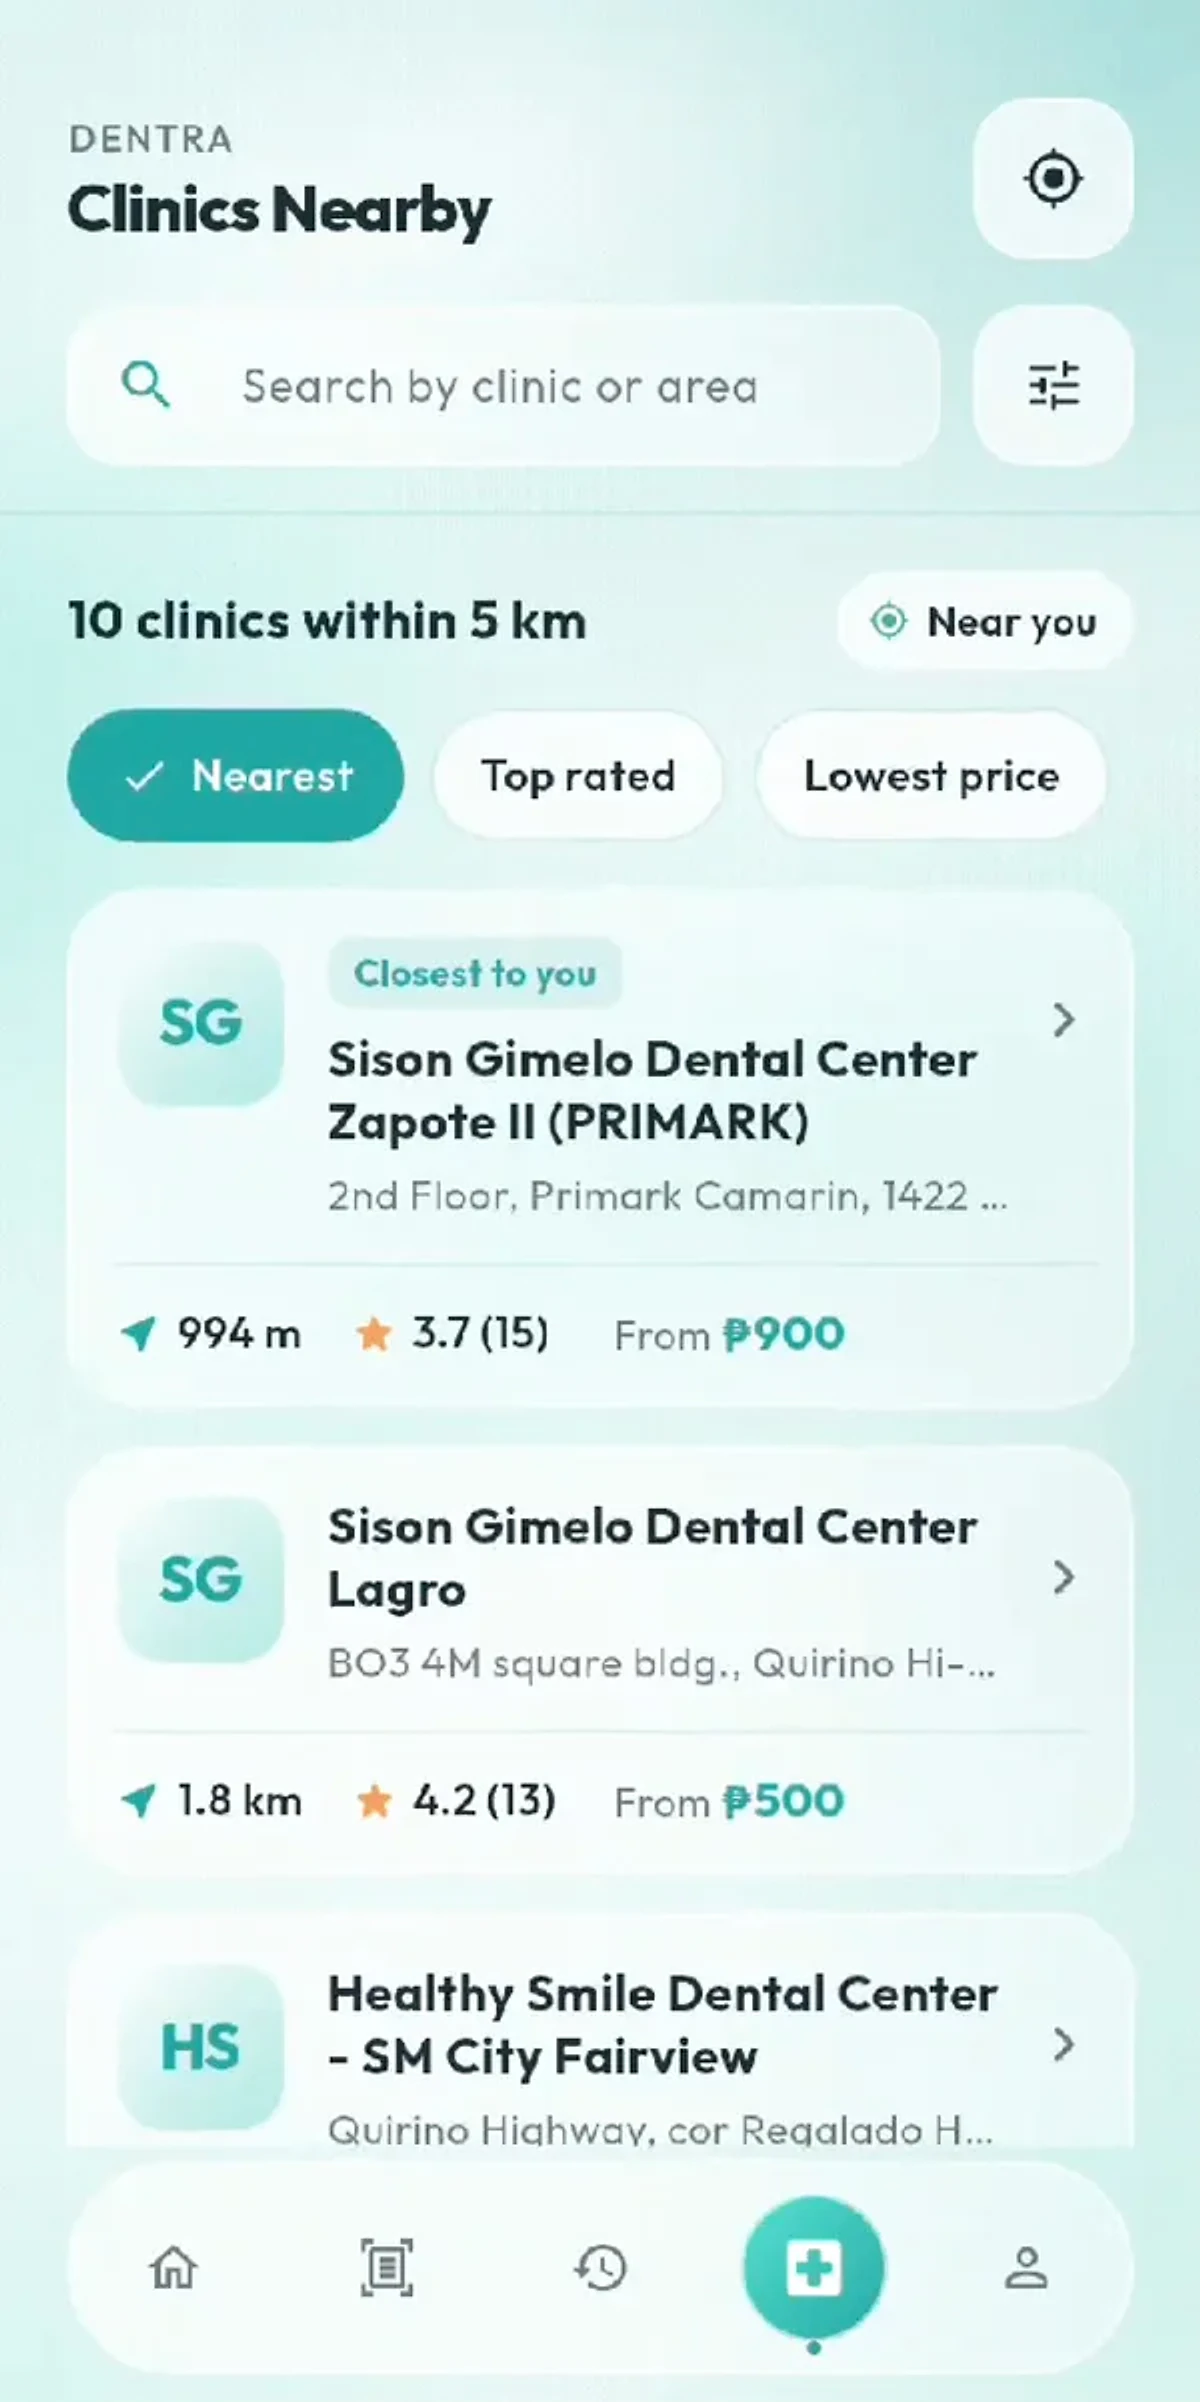
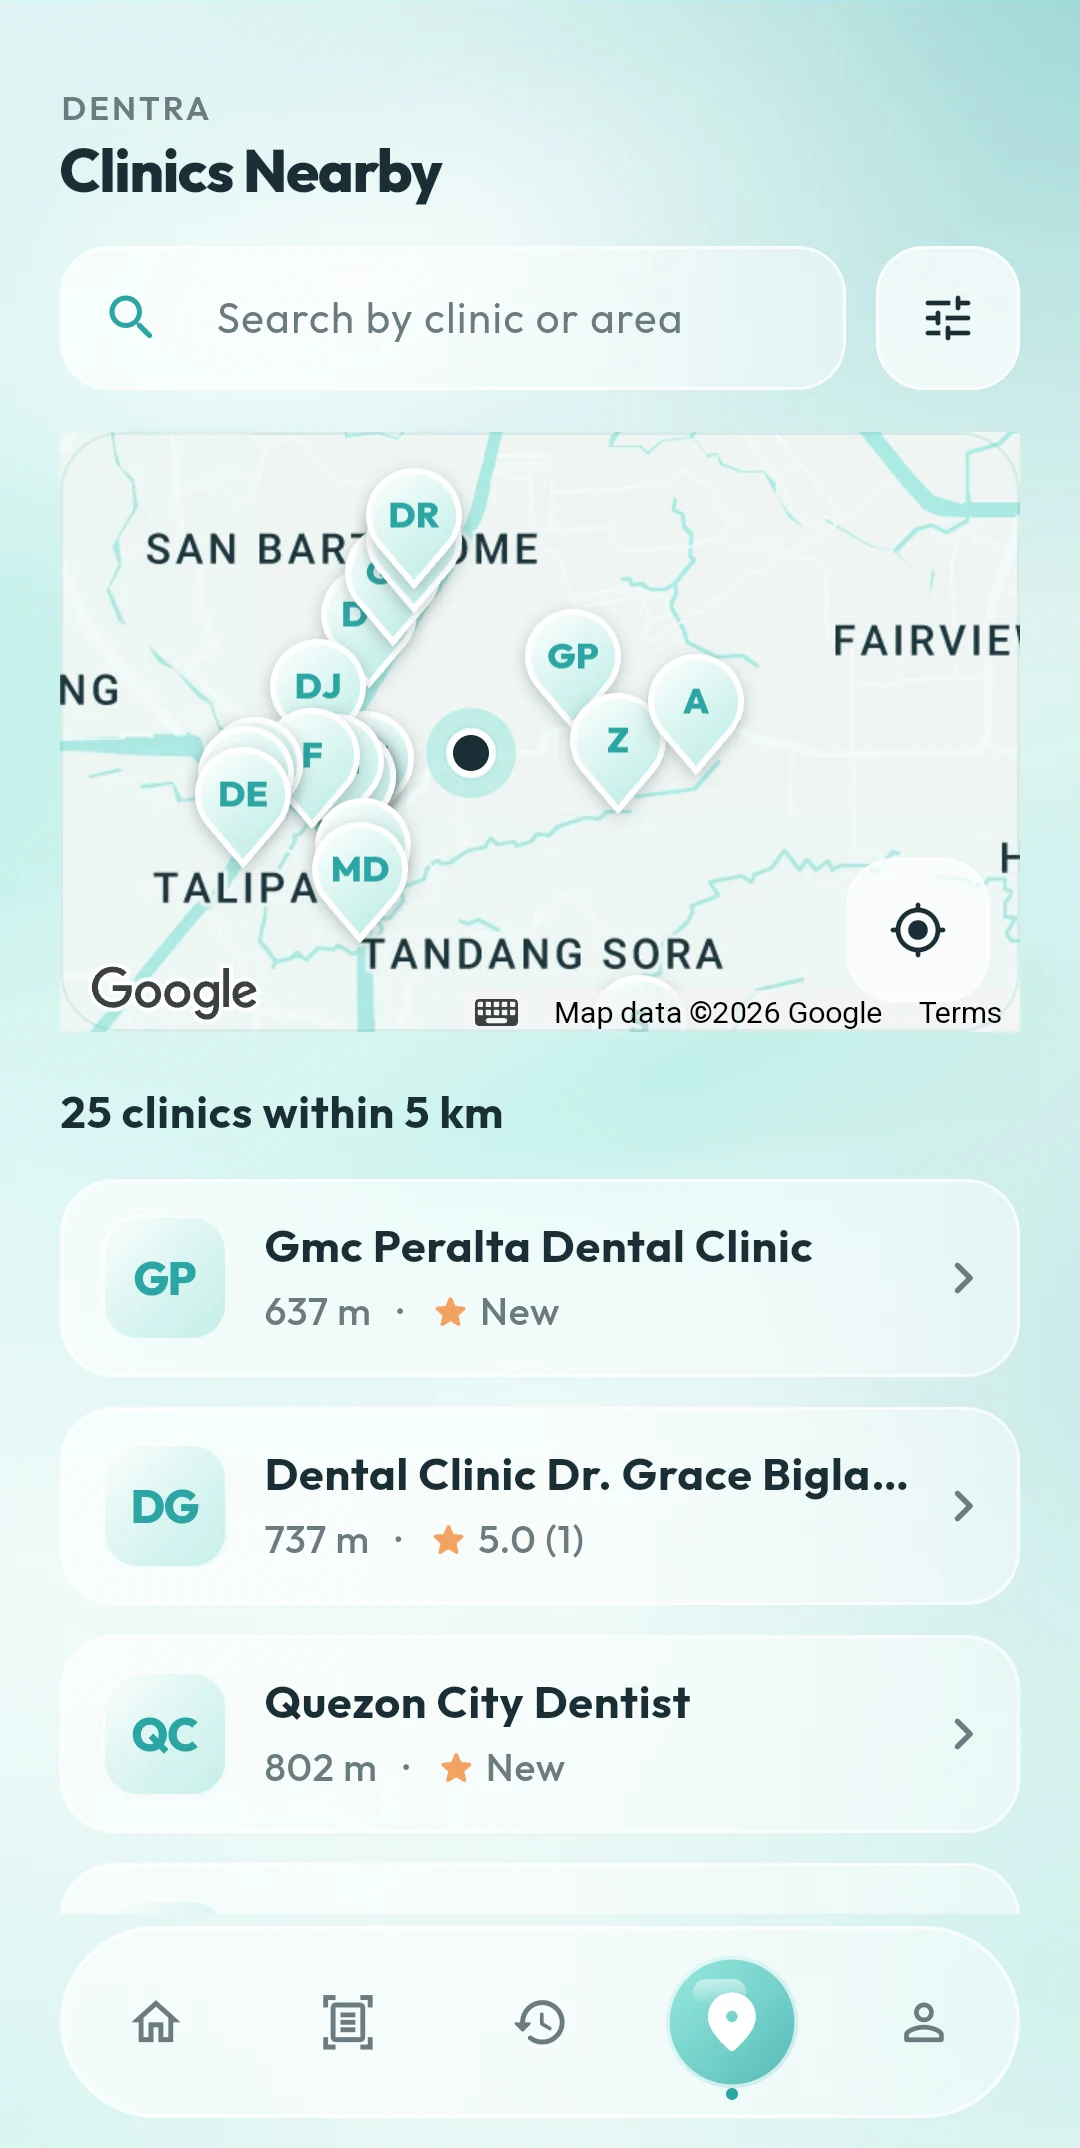
Swap phone screenshots for the updated app UI
Clinics, Treatments and Scan now use fresh device captures with the
Android status and nav bars cropped out. Drop the unused hero and detail
screens, update alt text for the nine-photo scan screen, and regenerate
og.png from the new clinics screen. The assistant screen is unchanged
until a clean retake arrives.

diff --git a/app/hero.jsx b/app/hero.jsx
@@ -6,10 +6,10 @@ import Phone from '../components/phone';
 import { HomeScreenBadge, PlayBadge } from '../components/store-badges';
 
 const screens = [
-  { name: 'clinics', icon: 'pin', title: 'Clinics nearby', sub: 'Nearest first', alt: 'Clinics Nearby screen listing dental clinics sorted by distance' },
-  { name: 'treatments', icon: 'book', title: 'Treatment library', sub: 'Know what to expect', alt: 'Treatments screen with search and category chips' },
+  { name: 'clinics', icon: 'pin', title: 'Clinics nearby', sub: 'Nearest first', alt: 'DENTRA clinic finder showing nearby dental clinics on a map and in a list sorted by distance' },
+  { name: 'treatments', icon: 'book', title: 'Treatment library', sub: 'Know what to expect', alt: 'DENTRA treatment library listing common treatments with category and time estimates' },
   { name: 'rabi', icon: 'chat', title: 'AI assistant', sub: 'Plain-language answers', alt: 'The DENTRA AI assistant, with suggested dental questions' },
-  { name: 'scan', icon: 'camera', title: 'Guided capture', sub: 'Prototype, demo results', alt: 'Guided capture screen with five mouth regions to photograph (prototype)' },
+  { name: 'scan', icon: 'camera', title: 'Guided capture', sub: 'Prototype, demo results', alt: 'DENTRA scan screen introducing the guided nine-photo capture steps (prototype)' },
 ];
 
 export default function Hero() {

diff --git a/app/how-it-works.jsx b/app/how-it-works.jsx
@@ -3,9 +3,9 @@ import { shot, shot2x } from '../components/phone';
 import Reveal from './reveal';
 
 const steps = [
-  { tag: '01', title: 'Capture', icon: 'camera', body: 'Guided steps help you photograph your teeth, one view at a time. This part is a prototype, so results are demo values for now.', screen: 'scan', alt: 'Guided capture screen with five photo regions (prototype)' },
+  { tag: '01', title: 'Capture', icon: 'camera', body: 'Guided steps help you photograph your teeth, one view at a time. This part is a prototype, so results are demo values for now.', screen: 'scan', alt: 'DENTRA scan screen introducing the guided nine-photo capture steps (prototype)' },
   { tag: '02', title: 'Understand', icon: 'chat', body: 'Read what common treatments involve, or ask the AI assistant in plain language.', screen: 'rabi', alt: 'AI assistant screen with suggested questions' },
-  { tag: '03', title: 'Act', icon: 'pin', body: 'Find real clinics around you, nearest first. Call or get directions.', screen: 'clinics', alt: 'Clinics list sorted by distance' },
+  { tag: '03', title: 'Act', icon: 'pin', body: 'Find real clinics around you, nearest first. Call or get directions.', screen: 'clinics', alt: 'DENTRA clinic finder showing nearby dental clinics on a map and in a list' },
 ];
 
 export default function HowItWorks() {
